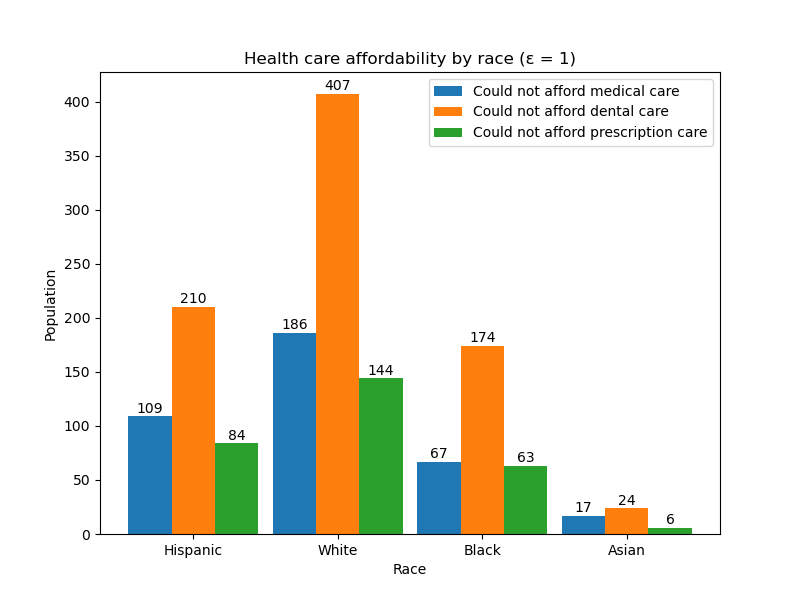
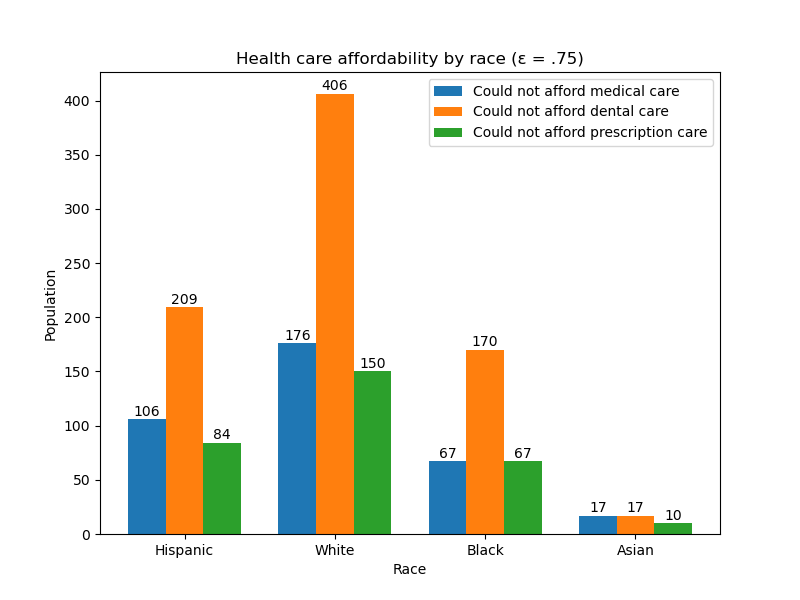
Lower epsilons

diff --git a/healthcarePlots.py b/healthcarePlots.py
@@ -7,7 +7,6 @@ df = pd.read_csv('h236.csv')
 N = 4
 ind = np.arange(N)
 
-width = 0.3
 
 def get_diagnosis_by_race():
     filtered_df = df[(df['DIABDXY1_M18'] == 1)]
@@ -21,9 +20,10 @@ def get_diagnosis_by_race():
     black_canc = len(filtered_df.loc[df['RACETHX'] == 3, 'CANCERY1'])
     asian_canc = len(filtered_df.loc[df['RACETHX'] == 4, 'CANCERY1'])
 
-    noisy_blue_bar = (round(np.random.laplace(loc=hispanic_diab, scale=2)), round(np.random.laplace(loc=white_diab, scale=2)), round(np.random.laplace(loc=black_diab, scale=2)), round(np.random.laplace(loc=asian_diab, scale=2)))
-    noisy_orange_bar = (round(np.random.laplace(loc=hispanic_canc, scale=2)), round(np.random.laplace(loc=white_canc, scale=2)), round(np.random.laplace(loc=black_canc, scale=2)), round(np.random.laplace(loc=asian_canc, scale=2)))
+    noisy_blue_bar = (round(np.random.laplace(loc=hispanic_diab, scale=3.555)), round(np.random.laplace(loc=white_diab, scale=3.555)), round(np.random.laplace(loc=black_diab, scale=3.555)), round(np.random.laplace(loc=asian_diab, scale=3.555)))
+    noisy_orange_bar = (round(np.random.laplace(loc=hispanic_canc, scale=3.555)), round(np.random.laplace(loc=white_canc, scale=3.555)), round(np.random.laplace(loc=black_canc, scale=3.555)), round(np.random.laplace(loc=asian_canc, scale=3.555)))
 
+    width = 0.3
     plt.figure(figsize=(8,6))
     plt.bar(ind, noisy_blue_bar, width, label='Diabetes diagnosis')
     plt.bar(ind + width, noisy_orange_bar, width, label='Cancer diagnosis')
@@ -34,7 +34,7 @@ def get_diagnosis_by_race():
 
     plt.xlabel('Race')
     plt.ylabel('Population')
-    plt.title('Diagnoses by race (ε = 1)')
+    plt.title('Diagnoses by race (ε = .75)')
     plt.xticks(ind + width / 2, ('Hispanic', 'White', 'Black', 'Asian'))
     plt.legend(loc='best')
     plt.show()
@@ -56,10 +56,11 @@ def get_affordability_by_race():
     black_pmed = len(filtered_df.loc[df['RACETHX'] == 3, 'AFRDPM2'])
     asian_pmed = len(filtered_df.loc[df['RACETHX'] == 4, 'AFRDPM2'])
 
-    noisy_blue_bar = (round(np.random.laplace(loc=hispanic_med, scale=2)), round(np.random.laplace(loc=white_med, scale=2)), round(np.random.laplace(loc=black_med, scale=2)), round(np.random.laplace(loc=asian_med, scale=2)))
-    noisy_orange_bar = (round(np.random.laplace(loc=hispanic_den, scale=2)), round(np.random.laplace(loc=white_den, scale=2)), round(np.random.laplace(loc=black_den, scale=2)), round(np.random.laplace(loc=asian_den, scale=2)))
-    noisy_green_bar = (round(np.random.laplace(loc=hispanic_pmed, scale=2)), round(np.random.laplace(loc=white_pmed, scale=2)), round(np.random.laplace(loc=black_pmed, scale=2)), round(np.random.laplace(loc=asian_pmed, scale=2)))
+    noisy_blue_bar = (round(np.random.laplace(loc=hispanic_med, scale=3.555)), round(np.random.laplace(loc=white_med, scale=3.555)), round(np.random.laplace(loc=black_med, scale=3.555)), round(np.random.laplace(loc=asian_med, scale=3.555)))
+    noisy_orange_bar = (round(np.random.laplace(loc=hispanic_den, scale=3.555)), round(np.random.laplace(loc=white_den, scale=3.555)), round(np.random.laplace(loc=black_den, scale=3.555)), round(np.random.laplace(loc=asian_den, scale=3.555)))
+    noisy_green_bar = (round(np.random.laplace(loc=hispanic_pmed, scale=3.555)), round(np.random.laplace(loc=white_pmed, scale=3.555)), round(np.random.laplace(loc=black_pmed, scale=3.555)), round(np.random.laplace(loc=asian_pmed, scale=3.555)))
 
+    width = 0.25
     plt.figure(figsize=(8,6))
     plt.bar(ind, noisy_blue_bar, width, label='Could not afford medical care')
     plt.bar(ind + width, noisy_orange_bar, width, label='Could not afford dental care')
@@ -73,7 +74,7 @@ def get_affordability_by_race():
 
     plt.xlabel('Race')
     plt.ylabel('Population')
-    plt.title('Health care affordability by race (ε = 1)')
+    plt.title('Health care affordability by race (ε = .75)')
     plt.xticks(ind + width, ('Hispanic', 'White', 'Black', 'Asian'))
     plt.legend(loc='best')
     plt.show()
@@ -100,11 +101,12 @@ def get_discrimination_by_race():
     black_work = len(filtered_df.loc[df['RACETHX'] == 3, 'SDDSCRMWRK7'])
     asian_work = len(filtered_df.loc[df['RACETHX'] == 4, 'SDDSCRMWRK7'])
 
-    noisy_blue_bar = (round(np.random.laplace(loc=hispanic_hlthcr, scale=2)), round(np.random.laplace(loc=white_hlthcr, scale=2)), round(np.random.laplace(loc=black_hlthcr, scale=2)), round(np.random.laplace(loc=asian_hlthcr, scale=2)))
-    noisy_orange_bar = (round(np.random.laplace(loc=hispanic_police, scale=2)), round(np.random.laplace(loc=white_police, scale=2)), round(np.random.laplace(loc=black_police, scale=2)), round(np.random.laplace(loc=asian_police, scale=2)))
-    noisy_green_bar = (round(np.random.laplace(loc=hispanic_jbsrch, scale=2)), round(np.random.laplace(loc=white_jbsrch, scale=2)), round(np.random.laplace(loc=black_jbsrch, scale=2)), round(np.random.laplace(loc=asian_jbsrch, scale=2)))
-    noisy_red_bar = (round(np.random.laplace(loc=hispanic_work, scale=2)), round(np.random.laplace(loc=white_work, scale=2)), round(np.random.laplace(loc=black_work, scale=2)), round(np.random.laplace(loc=asian_work, scale=2)))
+    noisy_blue_bar = (round(np.random.laplace(loc=hispanic_hlthcr, scale=3.555)), round(np.random.laplace(loc=white_hlthcr, scale=3.555)), round(np.random.laplace(loc=black_hlthcr, scale=3.555)), round(np.random.laplace(loc=asian_hlthcr, scale=3.555)))
+    noisy_orange_bar = (round(np.random.laplace(loc=hispanic_police, scale=3.555)), round(np.random.laplace(loc=white_police, scale=3.555)), round(np.random.laplace(loc=black_police, scale=3.555)), round(np.random.laplace(loc=asian_police, scale=3.555)))
+    noisy_green_bar = (round(np.random.laplace(loc=hispanic_jbsrch, scale=3.555)), round(np.random.laplace(loc=white_jbsrch, scale=3.555)), round(np.random.laplace(loc=black_jbsrch, scale=3.555)), round(np.random.laplace(loc=asian_jbsrch, scale=3.555)))
+    noisy_red_bar = (round(np.random.laplace(loc=hispanic_work, scale=3.555)), round(np.random.laplace(loc=white_work, scale=3.555)), round(np.random.laplace(loc=black_work, scale=3.555)), round(np.random.laplace(loc=asian_work, scale=3.555)))
     
+    width = 0.2
     plt.figure(figsize=(8,6))
     plt.bar(ind, noisy_blue_bar, width, label='Discrimination in healthcare')
     plt.bar(ind + width, noisy_orange_bar, width, label='Discrimination by police')
@@ -121,7 +123,7 @@ def get_discrimination_by_race():
 
     plt.xlabel('Race')
     plt.ylabel('Population')
-    plt.title('Discrimination by race (ε = 1)')
+    plt.title('Discrimination by race (ε = .75)')
     plt.xticks(ind + (width * 3) / 2, ('Hispanic', 'White', 'Black', 'Asian'))
     plt.legend(loc='best')
     plt.show()
@@ -133,8 +135,9 @@ def get_uninsured():
     nonusaborn_english_unins = len(filtered_df.loc[(df['BORNUSA'] == 2) & (df['OTHLGSPK'] == 2), 'UNINSY1'])
     nonusaborn_nonenglish_unins = len(filtered_df.loc[(df['BORNUSA'] == 2) & df['OTHLGSPK'] == 1, 'UNINSY1'])
 
-    noisy_blue_bar = (round(np.random.laplace(loc=usaborn_english_unins, scale=2)), round(np.random.laplace(loc=usaborn_nonenglish_unins, scale=2)), round(np.random.laplace(loc=nonusaborn_english_unins, scale=2)), round(np.random.laplace(loc=nonusaborn_nonenglish_unins, scale=2)))
+    noisy_blue_bar = (round(np.random.laplace(loc=usaborn_english_unins, scale=8)), round(np.random.laplace(loc=usaborn_nonenglish_unins, scale=8)), round(np.random.laplace(loc=nonusaborn_english_unins, scale=8)), round(np.random.laplace(loc=nonusaborn_nonenglish_unins, scale=8)))
 
+    width = 0.4
     plt.figure(figsize=(8,6))
     plt.bar(ind, noisy_blue_bar, width)
     for i, value in enumerate(noisy_blue_bar):
@@ -142,7 +145,7 @@ def get_uninsured():
 
     plt.xlabel('Born in the US or not and speaks English at home or not')
     plt.ylabel('Population')
-    plt.title('Uninsured by USA born and English spoken at home (ε = 1)')
+    plt.title('Uninsured by USA born and English spoken at home (ε = .5)')
     plt.xticks(ind, ('USA & English', 'USA & not English', 'not USA & English', 'not USA & not English'))
     plt.show()
 
@@ -158,9 +161,10 @@ def get_insurance_type():
     male_married_publ = len(filtered_df.loc[(df['SEX'] == 1) & (df['SPOUINY1'] == 2), 'INSCOVY1'])
     female_married_publ = len(filtered_df.loc[(df['SEX'] == 2) & (df['SPOUINY1'] == 2), 'INSCOVY1'])
 
-    noisy_blue_bar = (round(np.random.laplace(loc=male_single_priv, scale=2)), round(np.random.laplace(loc=female_single_priv, scale=2)), round(np.random.laplace(loc=male_married_priv, scale=2)), round(np.random.laplace(loc=female_married_priv, scale=2)))
-    noisy_orange_bar = (round(np.random.laplace(loc=male_single_publ, scale=2)), round(np.random.laplace(loc=female_single_publ, scale=2)), round(np.random.laplace(loc=male_married_publ, scale=2)), round(np.random.laplace(loc=female_married_publ, scale=2)))
+    noisy_blue_bar = (round(np.random.laplace(loc=male_single_priv, scale=3.555)), round(np.random.laplace(loc=female_single_priv, scale=3.555)), round(np.random.laplace(loc=male_married_priv, scale=3.555)), round(np.random.laplace(loc=female_married_priv, scale=3.555)))
+    noisy_orange_bar = (round(np.random.laplace(loc=male_single_publ, scale=3.555)), round(np.random.laplace(loc=female_single_publ, scale=3.555)), round(np.random.laplace(loc=male_married_publ, scale=3.555)), round(np.random.laplace(loc=female_married_publ, scale=3.555)))
 
+    width = 0.3
     plt.figure(figsize=(8,6))
     plt.bar(ind, noisy_blue_bar, width, label='private insurance')
     plt.bar(ind + width, noisy_orange_bar, width, label='public insurance')
@@ -171,7 +175,7 @@ def get_insurance_type():
 
     plt.xlabel('Gender and Marital Status')
     plt.ylabel('Population')
-    plt.title('Insurance type by gender and marital status (ε = 1)')
+    plt.title('Insurance type by gender and marital status (ε = .75)')
     plt.xticks(ind + width / 2, ('Single Man', 'Single Women', 'Married Man', 'Married Woman'))
     plt.legend(loc='best')
     plt.show()
